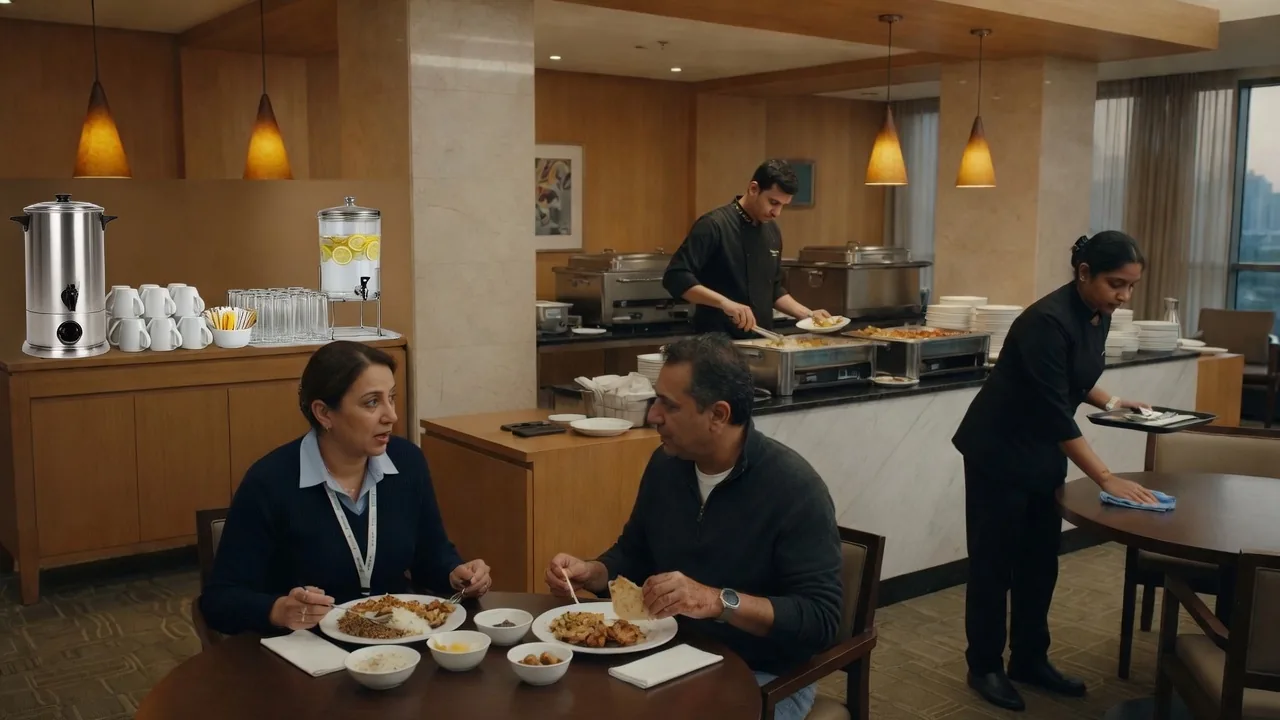
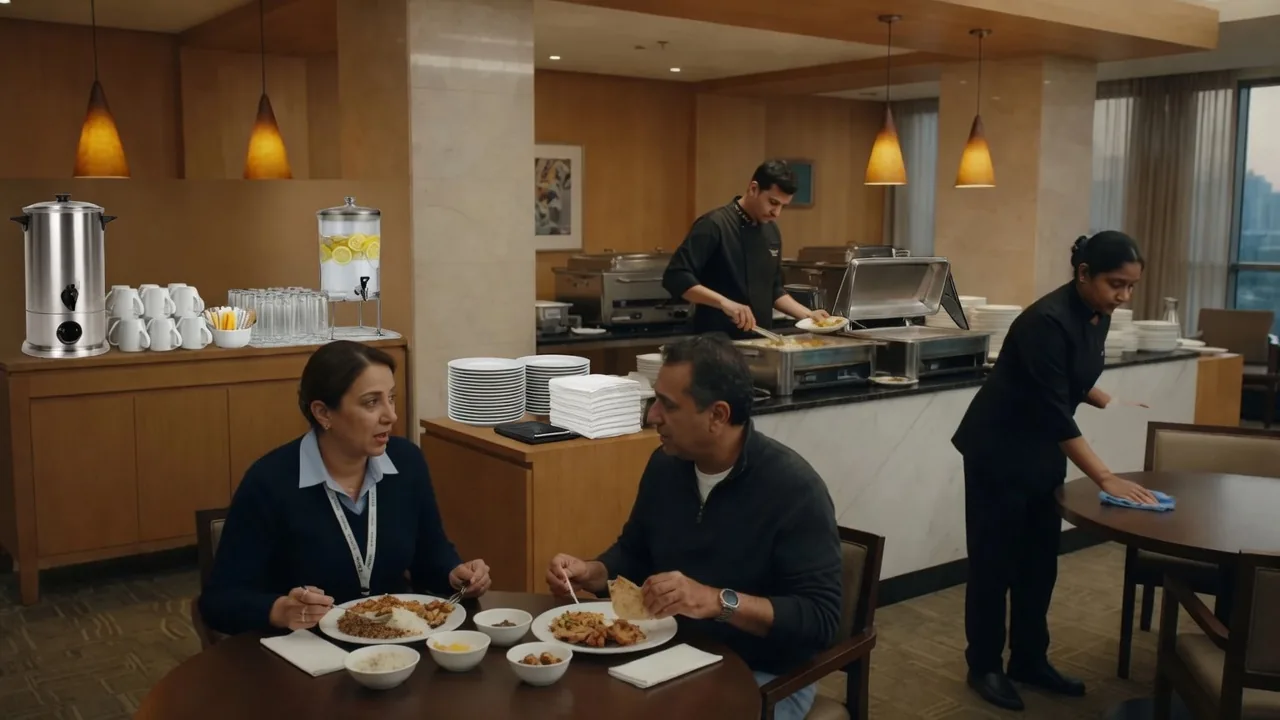
fix: tie hub card captions to photos and clear cafeteria devices
Hub site cards now use the same figure/caption as the body shots. The hospital cafeteria frame no longer has a phone beside the food.

diff --git a/src/components/InstitutionalLanding.tsx b/src/components/InstitutionalLanding.tsx
@@ -156,22 +156,9 @@ export default function InstitutionalLanding({ page }: { page: InstitutionalPage
           <div className="grid md:grid-cols-2 gap-8">
             {page.difference.blocks.map((block) => (
               <article key={block.title} className="border-t border-gray-200 pt-6">
-                {block.image ? (
-                  <img
-                    src={block.image.src}
-                    alt={block.image.alt}
-                    width={block.image.width}
-                    height={block.image.height}
-                    loading="lazy"
-                    decoding="async"
-                    className="w-full aspect-[16/9] object-cover mb-5 bg-gray-100"
-                  />
-                ) : null}
+                {block.image ? <ConceptFigure image={block.image} className="mb-5" /> : null}
                 <h3 className="font-playfair text-h4 text-black mb-3">{block.title}</h3>
                 <p className="font-inter text-body-sm text-gray-600 leading-relaxed max-w-[52ch]">{block.body}</p>
-                {block.image ? (
-                  <p className="mt-3 font-inter text-xs text-gray-400">{block.image.caption}</p>
-                ) : null}
               </article>
             ))}
           </div>
